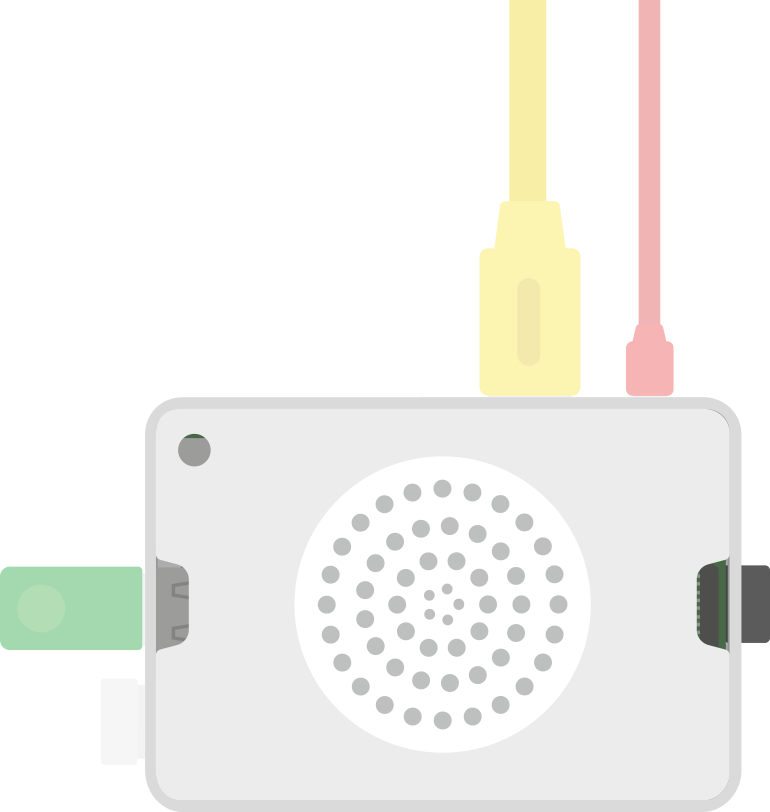
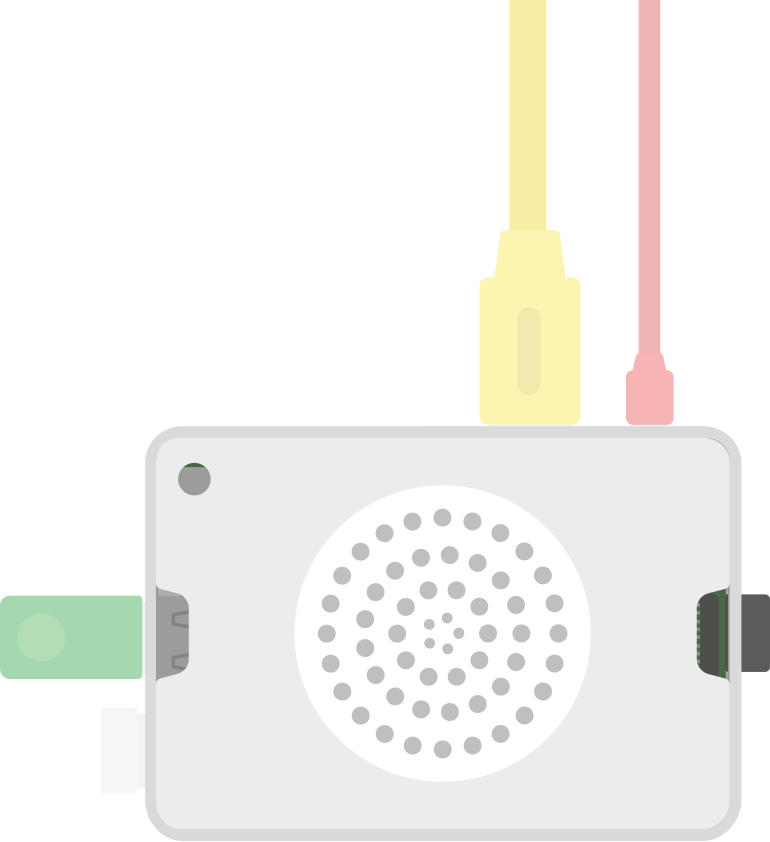
Making the pi-audio asset line up with the edge

diff --git a/kano_init_flow/stages/pi_audio/main.py b/kano_init_flow/stages/pi_audio/main.py
@@ -40,21 +40,21 @@ class PiAudio(Stage):
 
         scene.add_widget(
             Gtk.Image.new_from_file(self.media_path('pi-sound.png')),
-            Placement(0.67, 0.4),
-            Placement(0.5, 0.2)
+            Placement(0.67, 0.0),
+            Placement(0.5, 0.0)
         )
 
         scene.add_widget(
             ActiveImage(self.media_path('audio.gif'),
                         hover=self.media_path('audio-hover.gif')),
-            Placement(0.542, 0.405),
-            Placement(0.445, 0.34),
+            Placement(0.542, 0.28),
+            Placement(0.445, 0.32),
             self.next_stage
         )
 
         scene.add_arrow(
             "down",
-            Placement(0.542, 0.15, 0),
+            Placement(0.542, 0.05, 0),
             Placement(0.445, 0.13, 0)
         )
 

diff --git a/kano_init_flow/ui/scene.py b/kano_init_flow/ui/scene.py
@@ -31,8 +31,8 @@ SCREEN_HEIGHT = Gdk.Screen.height()
 
 # 4 by 3
 
-#SCREEN_WIDTH = 1024
-#SCREEN_HEIGHT = 768
+SCREEN_WIDTH = 1024
+SCREEN_HEIGHT = 768
 
 
 class Placement(object):
